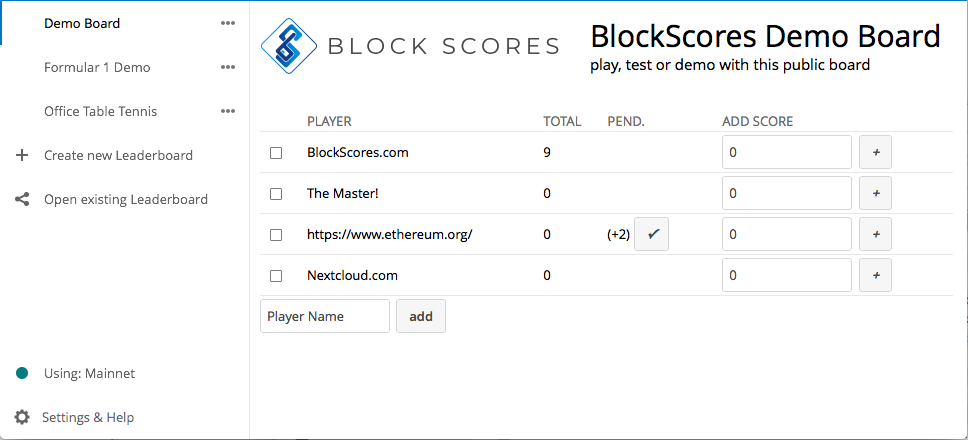
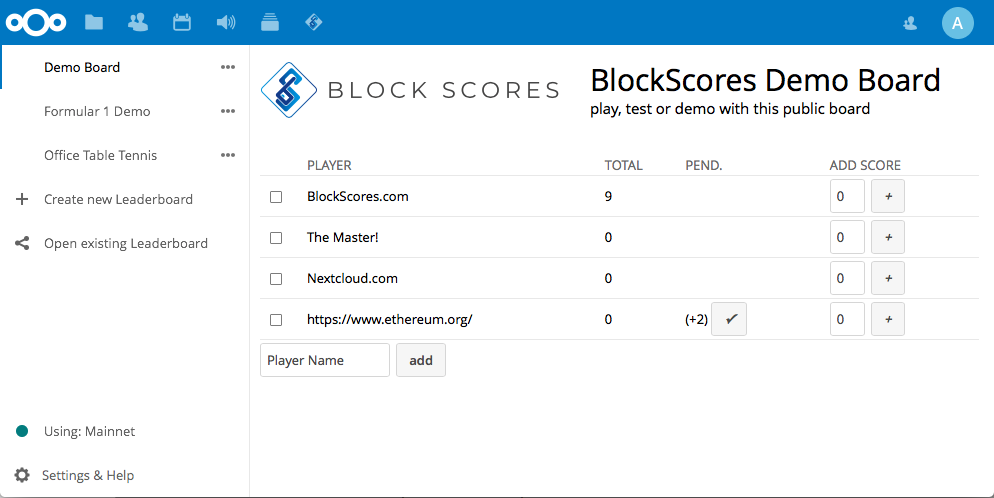
info updates

diff --git a/js/boardscript.js b/js/boardscript.js
@@ -322,7 +322,7 @@ function displayPlayer(playerData, demo) {
             cell3.innerHTML = '';
         }
         cell3.className = '';
-        cell4.innerHTML = '<input size="2" class="form-control" id="' + playerHash + '_value" value="0">&nbsp;<button class="button-primary small" type="button" id="' + playerHash + '_addButton"><i>+</i></button>';
+        cell4.innerHTML = '<input size="2" class="form-control" id="' + playerHash + '_value" value="0" style="width: 35px;">&nbsp;<button class="button-primary small" type="button" id="' + playerHash + '_addButton"><i>+</i></button>';
         cell4.className = '';
         document.getElementById(playerHash + '_addButton').onclick = function(){addScore(playerHash)};
     }
